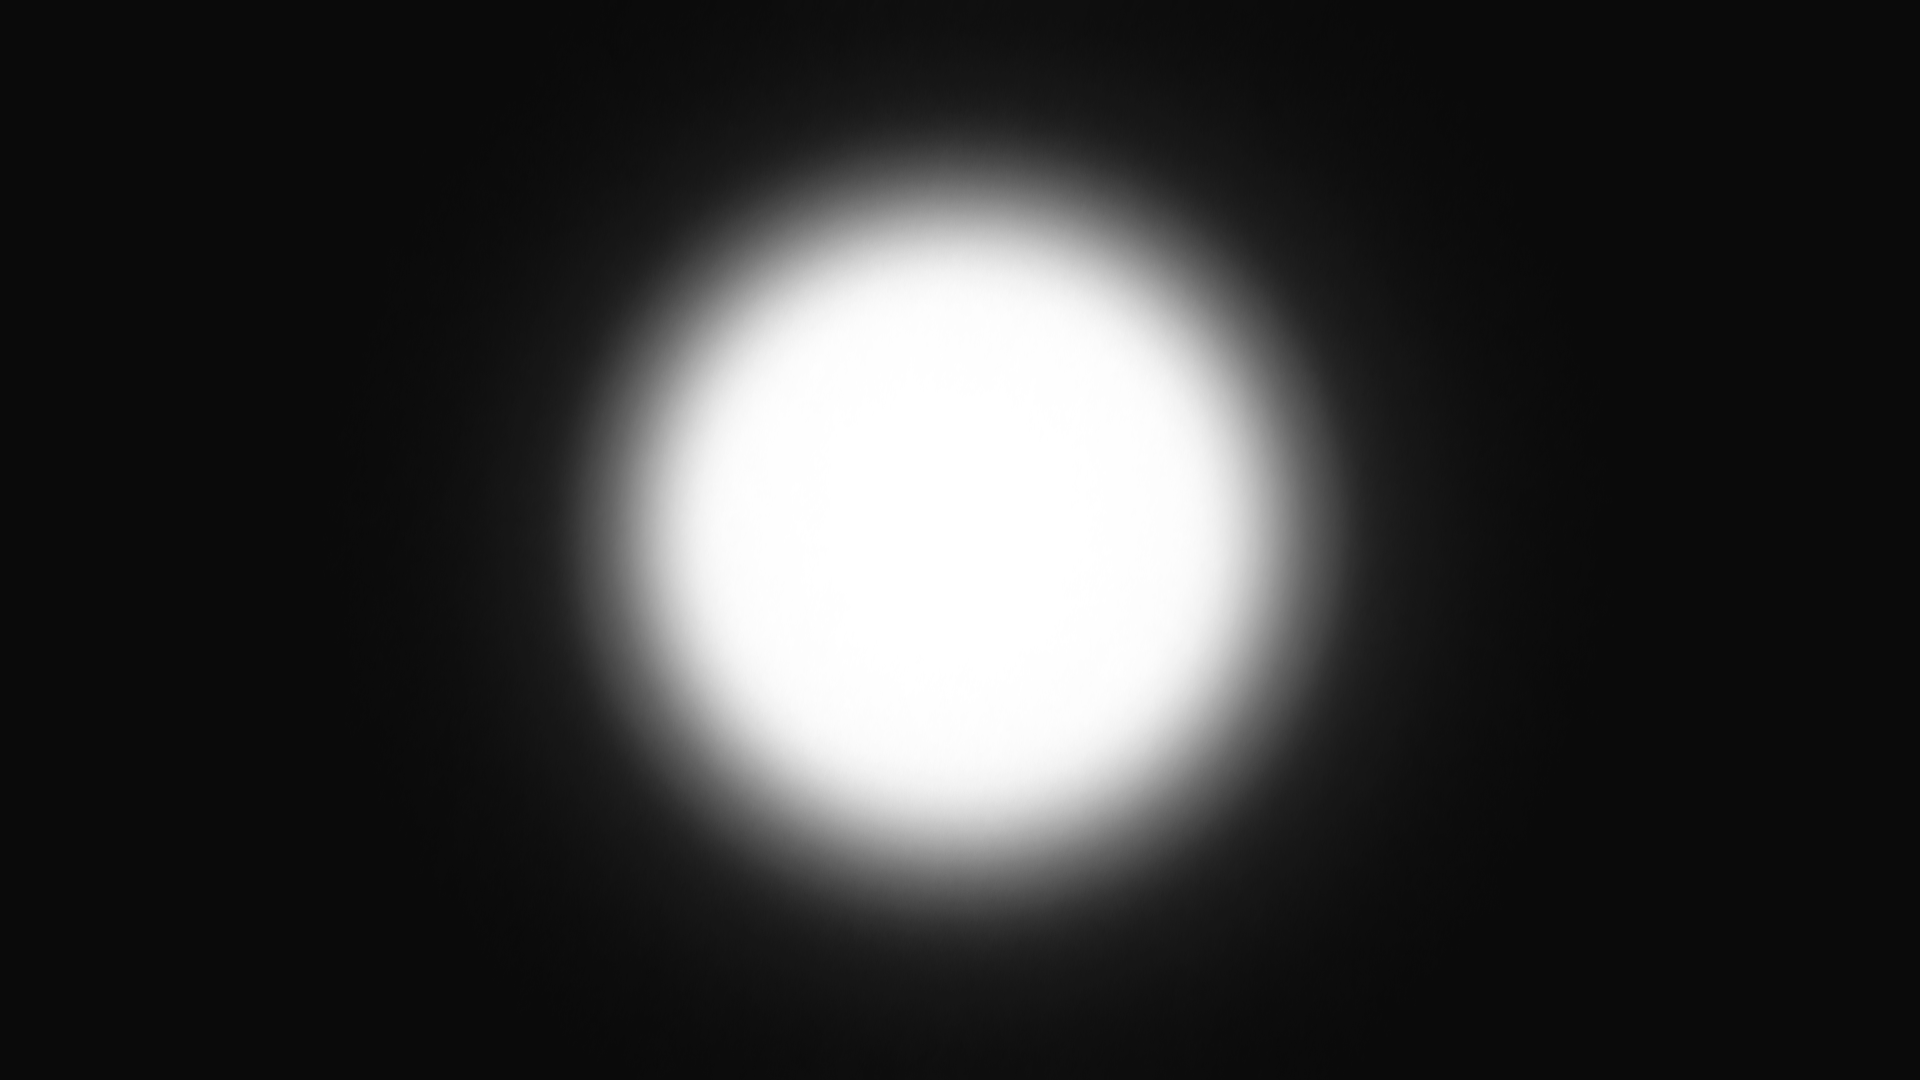
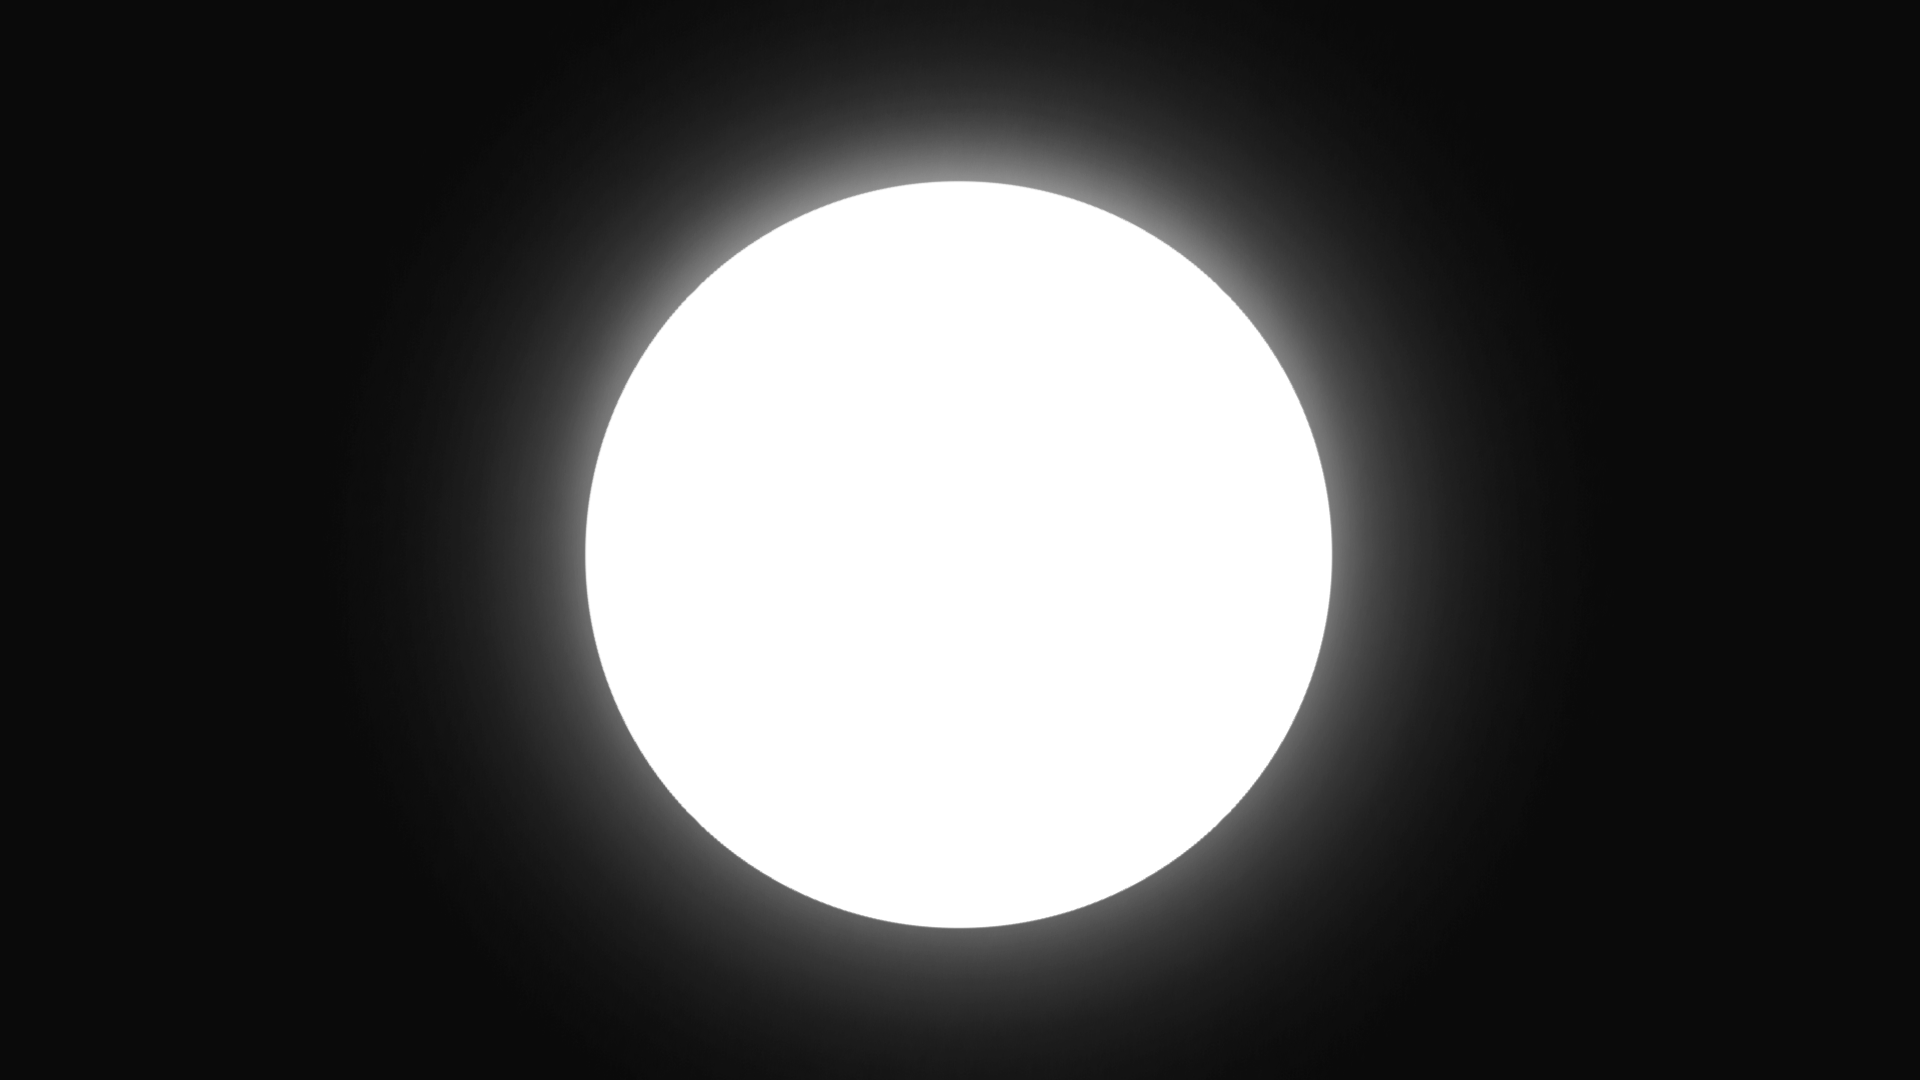
hg

Changed region(s): [[0.25, 0.0917, 0.75, 0.9472]]

diff --git a/ForbiddenSeas/Assets/2 Scripts/MovementCopySmooth.cs b/ForbiddenSeas/Assets/2 Scripts/MovementCopySmooth.cs
@@ -51,6 +51,8 @@ public class MovementCopySmooth : MonoBehaviour {
 			player.GetComponent<Player> ().m_LocalCamera.SetActive(true);
 			player.GetComponent<Player> ().m_LocalCamera.tag="MainCamera";
             binocolo.GetComponent<Image>().enabled = true;
+            binocolo.GetComponent<Image>().color = Color.white;
+
 		}
 		if (Input.GetKeyUp (KeyCode.S)) 
 		{
